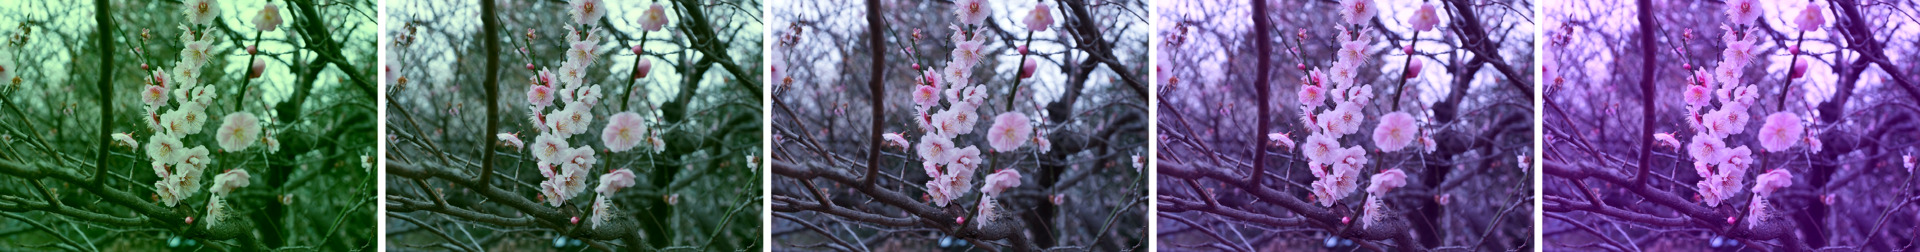
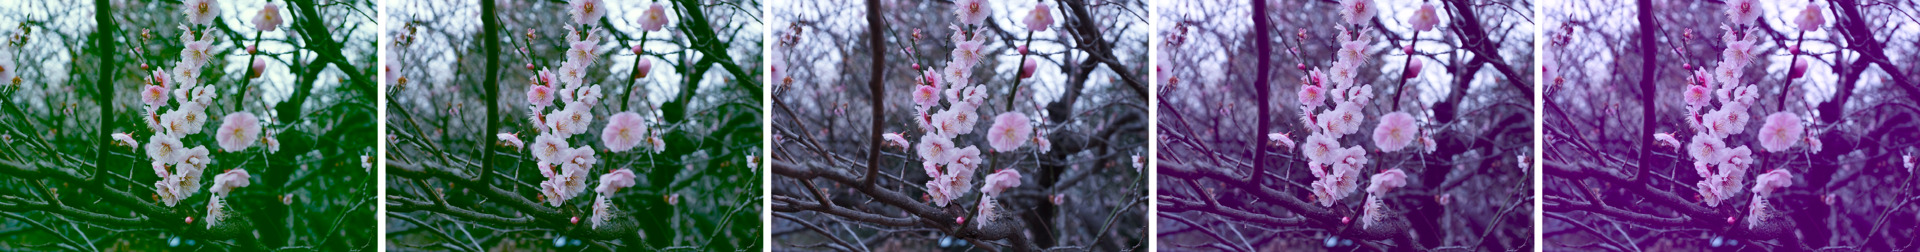
Change to use the linear RGB color space for manipulating colors, adjust the scales of parameters, and change the algorithm to manipulate the brightness

diff --git a/include/enhancer/enhancer.hpp b/include/enhancer/enhancer.hpp
@@ -20,6 +20,16 @@ namespace enhancer
 
     namespace internal
     {
+        inline Eigen::Vector3d convertRgbToLinearRgb(const Eigen::Vector3d& rgb)
+        {
+            return rgb.array().pow(2.2).matrix();
+        }
+
+        inline Eigen::Vector3d convertLinearRgbToRgb(const Eigen::Vector3d& linear_rgb)
+        {
+            return linear_rgb.array().pow(1.0 / 2.2).matrix();
+        }
+
         // Y'UV (BT.709) to linear RGB
         // Values are from https://en.wikipedia.org/wiki/YUV
         inline Eigen::Vector3d yuv2rgb(const Eigen::Vector3d& yuv)
@@ -124,9 +134,10 @@ namespace enhancer
 
         inline Eigen::Vector3d rgb2hsv(const Eigen::Vector3d& rgb)
         {
-            const double r = rgb(0);
-            const double g = rgb(1);
-            const double b = rgb(2);
+            const double& r = rgb(0);
+            const double& g = rgb(1);
+            const double& b = rgb(2);
+
             const double M = std::max({r, g, b});
 
             const double h = rgb2h(rgb);
@@ -149,9 +160,9 @@ namespace enhancer
 
         inline Eigen::Vector3d hsv2rgb(const Eigen::Vector3d& hsv)
         {
-            const double h = hsv(0);
-            const double s = hsv(1);
-            const double v = hsv(2);
+            const double& h = hsv(0);
+            const double& s = hsv(1);
+            const double& v = hsv(2);
 
             if (s < 1e-14)
             {
@@ -192,9 +203,9 @@ namespace enhancer
 
         inline Eigen::Vector3d changeColorBalance(const Eigen::Vector3d& inputRgb, const Eigen::Vector3d& shift)
         {
-            const double a     = 0.250;
-            const double b     = 0.333;
-            const double scale = 0.700;
+            constexpr double a     = 0.250;
+            constexpr double b     = 0.333;
+            constexpr double scale = 0.700;
 
             const double          lightness = rgb2l(inputRgb);
             const Eigen::Vector3d midtones  = (clamp((lightness - b) / a + 0.5) * clamp((lightness + b - 1.0) / (- a) + 0.5) * scale) * shift;
@@ -202,6 +213,37 @@ namespace enhancer
             const Eigen::Vector3d newHsl    = rgb2hsl(newColor);
 
             return hsl2rgb(Eigen::Vector3d(newHsl(0), newHsl(1), lightness));
+        }
+
+        inline Eigen::Vector3d applyTemperatureTintEffect(const Eigen::Vector3d& linear_rgb, const double temperature, const double tint)
+        {
+            constexpr double scale = 0.10;
+
+            return clamp(yuv2rgb(rgb2yuv(linear_rgb) + temperature * scale * Eigen::Vector3d(0.0, -1.0, 1.0) + tint * scale * Eigen::Vector3d(0.0, 1.0, 1.0)));
+        }
+
+        inline Eigen::Vector3d applyBrightnessEffect(const Eigen::Vector3d& linear_rgb, const double brightness)
+        {
+            constexpr double scale = 1.5;
+
+            return linear_rgb.array().pow(1.0 / (1.0 + scale * brightness)).matrix();
+        }
+
+        inline Eigen::Vector3d applySaturationEffect(const Eigen::Vector3d& linear_rgb, const double saturation)
+        {
+            const Eigen::Vector3d hsv = rgb2hsv(clamp(linear_rgb));
+            const double s = clamp(hsv(1) * (saturation + 1.0));
+
+            return hsv2rgb(Eigen::Vector3d(hsv(0), s, hsv(2)));
+        }
+
+        inline Eigen::Vector3d applyContrastEffect(const Eigen::Vector3d& linear_rgb, const double contrast)
+        {
+            constexpr double pi_4 = 3.14159265358979 * 0.25;
+
+            const double contrast_coef = std::tan((contrast + 1.0) * pi_4);
+            
+            return convertRgbToLinearRgb((contrast_coef * (convertLinearRgbToRgb(linear_rgb) - Eigen::Vector3d::Constant(0.5)) + Eigen::Vector3d::Constant(0.5)).array().max(0.0));
         }
 
         inline Eigen::Vector3d enhance(const Eigen::Vector3d& input_rgb, const Eigen::VectorXd& parameters)
@@ -214,27 +256,21 @@ namespace enhancer
             const double temperature = parameters[3] - 0.5;
             const double tint        = parameters[4] - 0.5;
 
-            // Apply approximate temperature/tint effect
-            Eigen::Vector3d rgb = yuv2rgb(rgb2yuv(input_rgb) + temperature * 0.2 * Eigen::Vector3d(0.0, -1.0, 1.0) + tint * 0.2 * Eigen::Vector3d(0.0, 1.0, 1.0));
+            Eigen::Vector3d linear_rgb = convertRgbToLinearRgb(input_rgb);
 
-            // brightness
-            rgb *= 1.0 + brightness;
+            // Approximate temperature/tint effect
+            linear_rgb = applyTemperatureTintEffect(linear_rgb, temperature, tint);
 
-            // contrast
-            const double contrast_coef = std::tan((contrast + 1.0) * M_PI_4);
-            rgb = contrast_coef * (rgb - Eigen::Vector3d::Constant(0.5)) + Eigen::Vector3d::Constant(0.5);
+            // Brightness
+            linear_rgb = applyBrightnessEffect(linear_rgb, brightness);
 
-            // clamp
-            rgb = clamp(rgb);
+            // Contrast
+            linear_rgb = applyContrastEffect(linear_rgb, contrast);
 
-            // saturation
-            Eigen::Vector3d hsv = rgb2hsv(rgb);
-            double s = hsv.y();
-            s *= saturation + 1.0;
-            hsv(1) = clamp(s);
-            const Eigen::Vector3d output_rgb = hsv2rgb(hsv);
+            // Saturation
+            linear_rgb = applySaturationEffect(linear_rgb, saturation);
 
-            return output_rgb;
+            return clamp(convertLinearRgbToRgb(linear_rgb));
         }
 
         inline Eigen::Vector3d enhance_v1(const Eigen::Vector3d& input_rgb, const Eigen::VectorXd& parameters)
